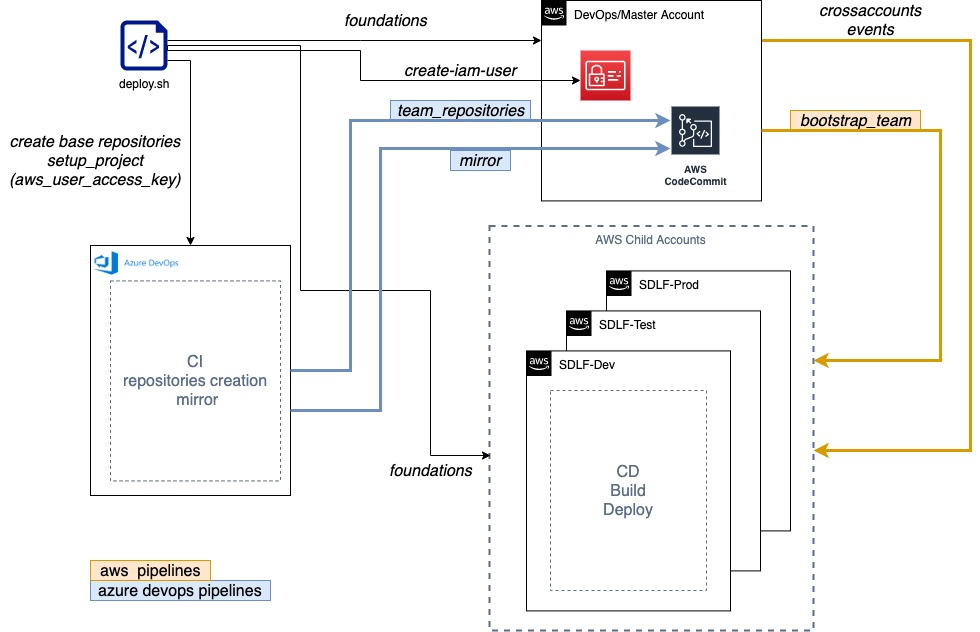
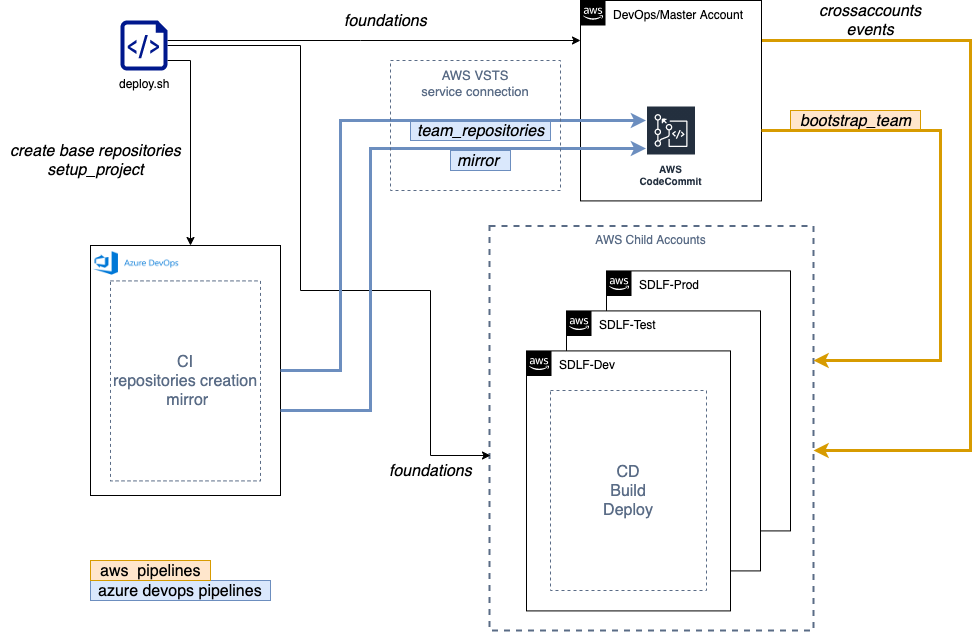
Better documentation for new service connection strategy

diff --git a/thirdparty-scms/ado/README.md b/thirdparty-scms/ado/README.md
@@ -7,11 +7,24 @@
 NOTE: For convenience, the Azure DevOps words will be replaced by ADO.
 
 1. The foundations stacks are still created from the deploy script
-2. In AWS an IAM user is created with its corresponding policy that allows to create the SDLF base repositories. The 
-   access key is temporally stored in *service-connection.json* file
-3. setup_project: the service connection is created in ADO using the access key and secret created in 2.
+2. A [service connection](https://docs.microsoft.com/en-us/azure/devops/pipelines/library/service-endpoints?view=azure-devops&tabs=yaml) using the [AWS vsts connector](https://aws.amazon.com/vsts/) is used to manage the repositories creation on AWS. This role or user configured inside the service connection must have at least the next policy:
+```
+{
+    "Version": "2012-10-17",
+    "Statement": [
+        {
+            "Effect": "Allow",
+            "Action": [
+              "codecommit:*"
+            ],
+            "Resource": "arn:aws:codecommit:*:*:sdlf-*"
+        }
+    ]
+}
+```
+3. setup_project: modifies the ADO configuration for the deployment script
 4. The base repositories are created in AWS empty.
-5. The base repositories are created and populated in ADO. So are the pipelines which in the Mirror stage, will use the service connection created in 3.
+5. The base repositories are created and populated in ADO. So are the pipelines which in the Mirror stage, will use the service connection mentioned in 2.
 6. The team creation is now an ADO pipeline responsability therefore the PAT token is stored as a variable in the sdlf-team pipeline with the porpose to create the team repositories in ADO and AWS 
 
 NOTE: From now on, the script **bootstrap_team.sh** from the **sdlf-team** repository will not create any team repository.
@@ -20,7 +33,7 @@ NOTE: From now on, the script **bootstrap_team.sh** from the **sdlf-team** repos
 
 1. [Azure-cli](https://docs.microsoft.com/en-us/cli/azure/install-azure-cli) and an authenticated user with the capability to create repositories, password access tokens and pipelines.
 2. [Azure Personal access tokens](https://docs.microsoft.com/en-us/azure/devops/organizations/accounts/use-personal-access-tokens-to-authenticate?view=azure-devops&tabs=preview-page#create-a-pat) 
-A PAT is necessary in order to allow the sdlf-team pipeline to create the team repositories in ADO. The [scopes](https://docs.microsoft.com/en-us/azure/devops/integrate/get-started/authentication/oauth?view=azure-devops#scopes) of the token should be:
+A PAT with the name **sdlf-aztoken** is necessary in order to allow the sdlf-team pipeline to create the team repositories in ADO. The [scopes](https://docs.microsoft.com/en-us/azure/devops/integrate/get-started/authentication/oauth?view=azure-devops#scopes) of the token should be:
     - Agent Pools: Read (vso.agentpools)
     - Build: Read & execute (vso.build_execute)
     - Code: Read, write, & manage (vso.code_manage)
@@ -33,7 +46,7 @@ A PAT is necessary in order to allow the sdlf-team pipeline to create the team r
     
     Otherwise, you can install it from the github page: https://stedolan.github.io/jq/download/
 4. [AWS-cli](https://aws.amazon.com/cli/)
-5. [AWS Toolkit for Azure DevOps](https://aws.amazon.com/vsts/) Used in the service-connection
+5. [AWS Toolkit for Azure DevOps](https://aws.amazon.com/vsts/) Used in the service-connection. This connection **must** be configured previous to deployment and **has** to be configured as mentioned in bullet number 2 from the main section of this document
 6. SED: If you're using the linux subsystem, you can install it with:
    
    - sudo apt install -y sed
@@ -50,11 +63,9 @@ A PAT is necessary in order to allow the sdlf-team pipeline to create the team r
    - **organization**: The name of your organization
    - **project**: The name of the project where all the resources will be created
    - **repository-prefix**: The prefix of the repositories for the SDLF project
-   - **aws-codecommit-user**: The name of the IAM user that will be created on AWS (for example: sdlf-azure-mirror)
    - **service-connection-name**: The name of the service connection that will use the AWS Toolkit
      to allow the interaction with the CodeCommit repositories. 
-   - **sdlf-aztoken**: The PAT string created in the Azure DevOps console (like shown on Technical
-     Requirements, bullet number 2)  
+   - **sdlf-aztoken**: The PAT string created in the Azure DevOps console (like shown on Prerequisites, bullet number 2)  
 
     Note: All the parameters are mandatory and can not be empty
 
